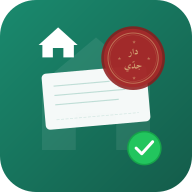
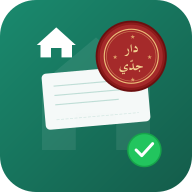
Bolder seal stamp + plain Arabic in manifest
1. Seal stamp: larger (r95), brighter gold text (#f0d090), 44pt font,
   full opacity, thicker gold borders — much more visible at 192px
2. manifest.json: replace unicode escapes with plain Arabic text
   for easier editing
3. Bump SW cache to v6

diff --git a/frontend/public/sw.js b/frontend/public/sw.js
@@ -1,4 +1,4 @@
-const CACHE_NAME = "check-tracker-v5";
+const CACHE_NAME = "check-tracker-v6";
 const BASE = "/rent-check-tracker/";
 const STATIC_ASSETS = [BASE, BASE + "index.html", BASE + "manifest.json"];
 
